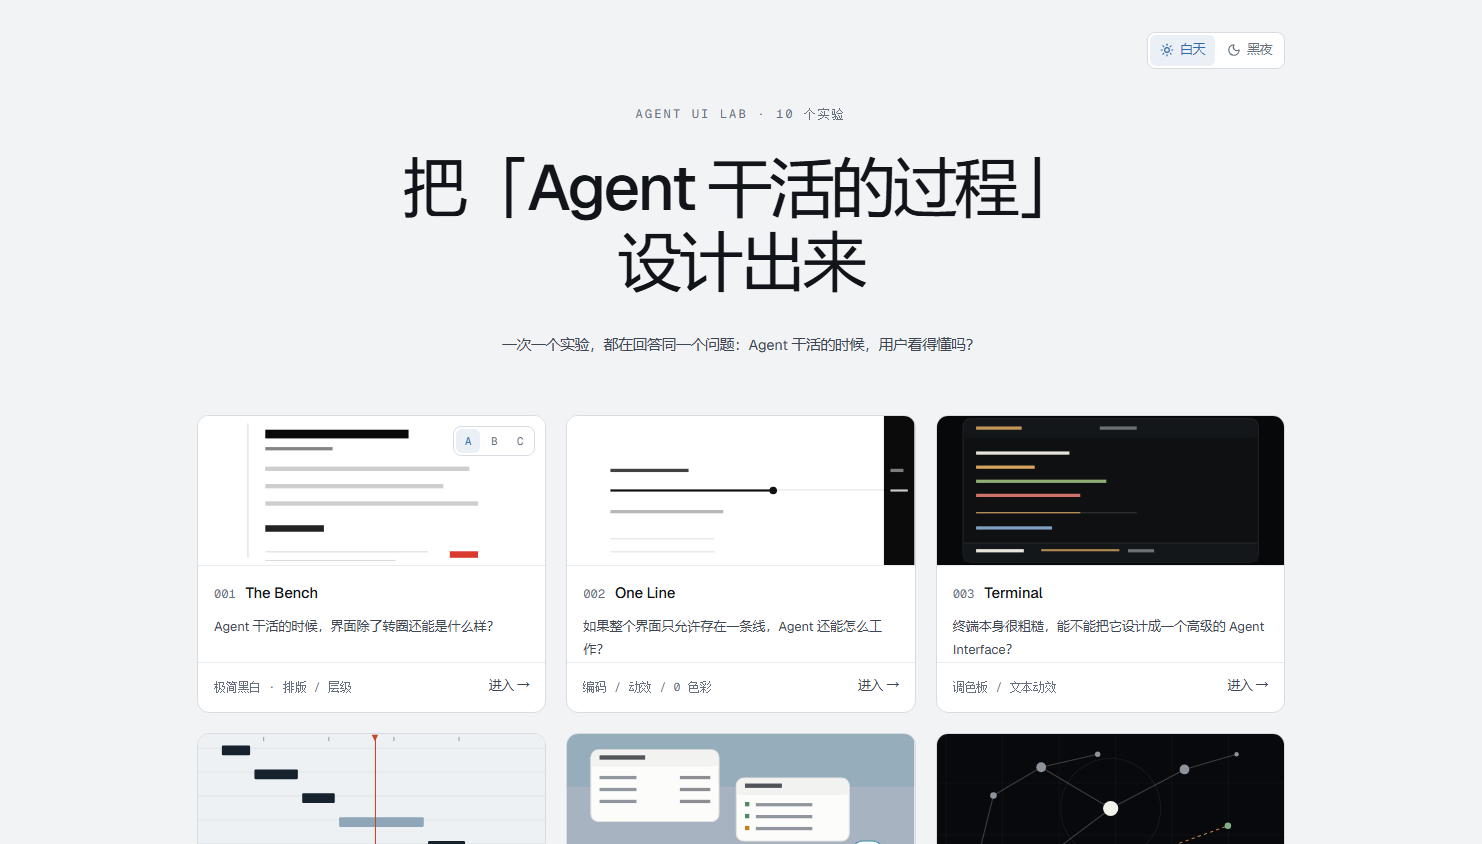
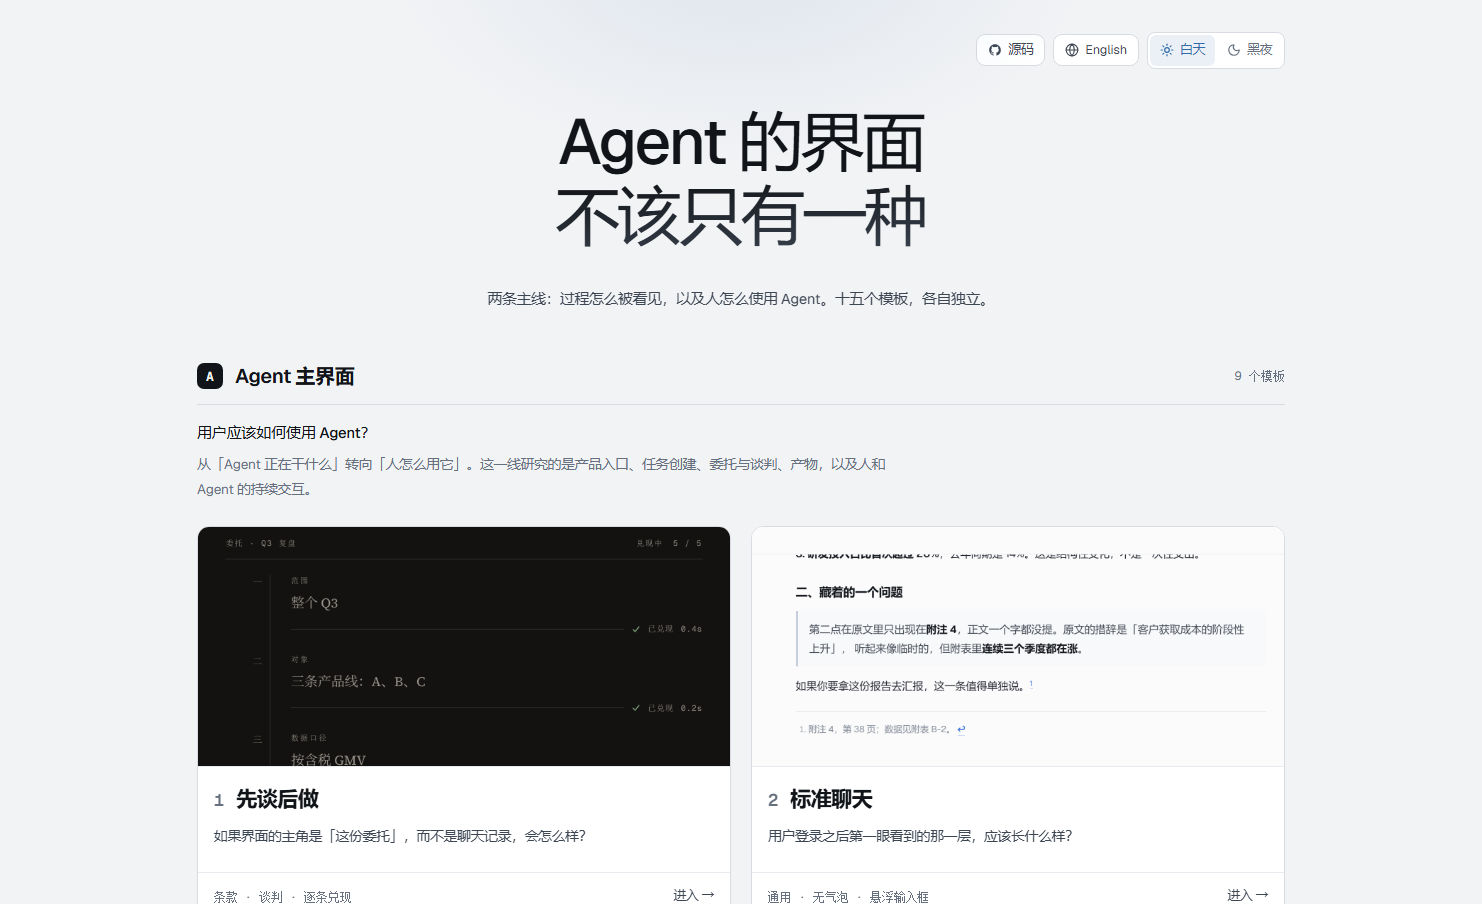
feat: 主页再清理，页脚换成 ID 信息
删掉主标题上面那行眉标（AGENT UI LAB · 两条主线 · 15 个模板）。
删掉 B 方案下面那个「待做」区块 —— 里面只有一条占位，排版也不好看。
A / B 两栏右上角的「9 个模板」「6 个模板」从 12px 灰字改成 16px 半粗黑字。
页脚那两行小字换成 ID 信息：左边 MIT License 与版权，右边仓库地址。

docs/gallery.png 也重新截了，README 首屏那张还是旧版主页。
中英文两版同步（这些改动本身跟语言无关，两个语言共用一个页脚）。

diff --git a/src/lab/Index.tsx b/src/lab/Index.tsx
@@ -19,7 +19,6 @@ import GithubMark from './GithubMark'
 export default function LabIndex() {
   const { lang, setLang, t } = useLang()
   const live = ENTRIES.filter((e) => e.status === 'live' && PREVIEWS[e.no])
-  const planned = ENTRIES.filter((e) => e.status === 'planned')
 
   return (
     <div className="min-h-full lab-bg">
@@ -36,7 +35,6 @@ export default function LabIndex() {
         <header className="relative pb-12 pt-6 text-center">
           <div className="lab-hero-glow" />
           <div className="relative">
-            <div className="mb-7 font-mono text-[12px] tracking-[0.18em] lab-t3">AGENT UI LAB · {t(UI.eyebrow)}</div>
             <h1 className="lab-hero lab-rise mx-auto text-balance text-[38px] font-medium leading-[1.16] tracking-[-0.035em] sm:text-[52px] lg:text-[64px]">
               {t(HERO.line1)}
               <br />
@@ -67,22 +65,16 @@ export default function LabIndex() {
           )
         })}
 
-        <section className="mt-4 border-t pt-7 lab-line">
-          <div className="mb-4 font-mono text-[12px] tracking-[0.16em] lab-t3">{t(UI.planned)}</div>
-          <ul className="flex flex-col gap-2.5">
-            {planned.map((e, i) => (
-              <li key={i} className="flex flex-wrap items-baseline gap-x-4 gap-y-1">
-                <span className="w-9 font-mono text-[12.5px] tabular-nums lab-t3">{e.no}</span>
-                <span className="text-[14px] font-medium lab-t2">{t(e.title)}</span>
-                <span className="text-[14px] lab-t3">{t(e.question)}</span>
-              </li>
-            ))}
-          </ul>
-        </section>
-
-        <footer className="mt-12 flex flex-wrap items-center justify-between gap-x-8 gap-y-2 border-t pt-6 text-[12.5px] lab-t3 lab-line-soft">
-          <span>{t(UI.footL)}</span>
-          <span>{t(UI.footR)}</span>
+        <footer className="mt-16 flex flex-wrap items-center justify-between gap-x-8 gap-y-2 border-t pt-6 lab-line">
+          <span className="text-[13px] lab-t3">MIT License · © 2026 ChenChen913</span>
+          <a
+            className="font-mono text-[13px] lab-t3 lab-hover-plain"
+            href={GITHUB}
+            target="_blank"
+            rel="noreferrer"
+          >
+            github.com/ChenChen913/agent-ui-lab
+          </a>
         </footer>
       </div>
     </div>

diff --git a/src/styles/base.css b/src/styles/base.css
@@ -101,7 +101,9 @@ body {
 .lab-lh-n {
   margin-left: auto;
   font-family: 'Geist Mono Variable', ui-monospace, monospace;
-  font-size: 12px; color: var(--lab-t3);
+  font-size: 16px; font-weight: 600;
+  color: var(--lab-t1);
+  font-variant-numeric: tabular-nums;
 }
 /* ── 主页卡片上的真截图 ──────────────────────────────────
    截图不是整个窗口，是 750×360 的一块关键区域（2 倍像素密度）。
